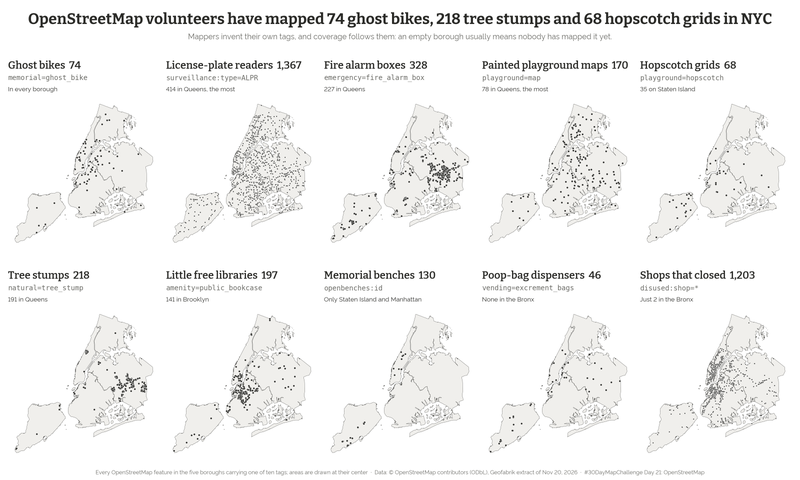
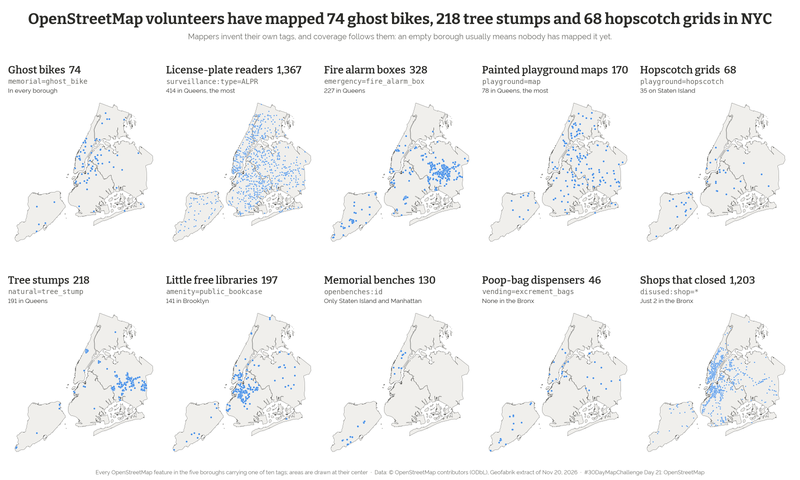
Day 21: blue dots, plus a LinkedIn portrait small-multiples image

diff --git a/docs/day21/index.html b/docs/day21/index.html
@@ -162,8 +162,8 @@ body { margin: 0; background: var(--bg); color: var(--ink);
   .map-wrap > svg:active { cursor: grabbing; }
   .map-wrap > svg.on-dot { cursor: pointer; }
   .land { fill: var(--ctl); stroke: var(--ink); stroke-width: 0.6; vector-effect: non-scaling-stroke; }
-  .dot { fill: var(--ink); stroke: var(--bg); stroke-width: 0.8; vector-effect: non-scaling-stroke; pointer-events: none; }
-  .dot.hot { fill: var(--accent); stroke: var(--ink); stroke-width: 1.5; }
+  .dot { fill: var(--accent); stroke: var(--bg); stroke-width: 0.8; vector-effect: non-scaling-stroke; pointer-events: none; }
+  .dot.hot { fill: var(--seq-7); stroke: var(--bg); stroke-width: 1.5; }
 
   /* in-map panel for the chosen tag (MapKit.legend, so it moves under the map on phones) */
   .legend code, .tip code { font: 14px/1.3 ui-monospace, SFMono-Regular, Menlo, monospace; }

diff --git a/day21-openstreetmap/web/index.html b/day21-openstreetmap/web/index.html
@@ -18,8 +18,8 @@
   .map-wrap > svg:active { cursor: grabbing; }
   .map-wrap > svg.on-dot { cursor: pointer; }
   .land { fill: var(--ctl); stroke: var(--ink); stroke-width: 0.6; vector-effect: non-scaling-stroke; }
-  .dot { fill: var(--ink); stroke: var(--bg); stroke-width: 0.8; vector-effect: non-scaling-stroke; pointer-events: none; }
-  .dot.hot { fill: var(--accent); stroke: var(--ink); stroke-width: 1.5; }
+  .dot { fill: var(--accent); stroke: var(--bg); stroke-width: 0.8; vector-effect: non-scaling-stroke; pointer-events: none; }
+  .dot.hot { fill: var(--seq-7); stroke: var(--bg); stroke-width: 1.5; }
 
   /* in-map panel for the chosen tag (MapKit.legend, so it moves under the map on phones) */
   .legend code, .tip code { font: 14px/1.3 ui-monospace, SFMono-Regular, Menlo, monospace; }

diff --git a/day21-openstreetmap/build.py b/day21-openstreetmap/build.py
@@ -6,6 +6,7 @@ Where a borough looks empty it usually means nobody has mapped it yet, so each v
 points cluster.
 Writes:
   - out/nyc_folk_tags.png    (static, small multiples: one panel per tag)
+  - out/nyc_folk_tags_linkedin.png  (1080x1350 portrait for the LinkedIn feed, same ten maps in a 3x4 grid)
   - out/nyc_folk_tags.html   (interactive: pick a tag from a dropdown; hover a dot for its tags,
                               click to open it on openstreetmap.org)
 
@@ -39,6 +40,8 @@ BORO_ORDER = ["Manhattan", "Brooklyn", "Queens", "Bronx", "Staten Island"]
 THIS_YEAR = "2026"
 
 TITLE = "OpenStreetMap volunteers have mapped 74 ghost bikes, 218 tree stumps and 68 hopscotch grids in NYC"
+TAKEAWAY = ("Mappers invent their own tags, and coverage follows them: "
+            "an empty borough usually means nobody has mapped it yet.")
 METHOD = ("Every OpenStreetMap feature in the five boroughs carrying one of ten tags; "
           "areas are drawn at their center")
 
@@ -86,32 +89,77 @@ def summarize(pts):
     return views
 
 
+DOT = S.C["accent"]   # series blue
+
+
+def draw_panel(ax, v, land, boros, size_small, size_large, fs):
+    """One small map: land, borough lines, the tag's points, and three heading lines above it.
+    fs = (heading, tag, note) font sizes; text offsets are in points so they hold at any figure size."""
+    land.plot(ax=ax, color=S.C["ctl"], edgecolor="none")
+    boros.boundary.plot(ax=ax, color=S.INK, linewidth=S.MAP["boundary_width"] * 0.6)
+    g = v["sel"].geometry
+    ax.scatter(g.x, g.y, s=size_small if v["n"] < 400 else size_large, color=DOT, edgecolor=S.BG,
+               linewidth=0.2, zorder=3)
+    ax.set_axis_off()
+    ax.set_aspect("equal")
+    ax.set_anchor("NW")   # map sits right under its heading, left-aligned with it
+    lines = [(f"{v['label']}  {v['n']:,}", fs[0], dict(fontweight="semibold", fontfamily=S.HEAD_FONT, color=S.INK)),
+             (v["tag"], fs[1], dict(fontfamily="monospace", color=S.MUTED)),
+             (short_note(v), fs[2], dict(color=S.INK))]
+    y = 3   # points above the axes top, stacked bottom-up
+    for text, size, kw in reversed(lines):
+        ax.annotate(text, xy=(0, 1), xycoords="axes fraction", xytext=(0, y), textcoords="offset points",
+                    fontsize=size, va="bottom", ha="left", **kw)
+        y += size * 1.35
+
+
 def png(views, boros):
     fig, axes = plt.subplots(2, 5, figsize=S.MAP["png_size_in"])
     fig.subplots_adjust(left=0.01, right=0.99, top=0.80, bottom=0.04, wspace=0.04, hspace=0.36)
     land = boros.dissolve()
     for ax, v in zip(axes.flat, views):
-        land.plot(ax=ax, color=S.TOKENS["color"]["light"]["ctl"], edgecolor="none")
-        boros.boundary.plot(ax=ax, color=S.INK, linewidth=S.MAP["boundary_width"] * 0.6)
-        g = v["sel"].geometry
-        size = 7 if v["n"] < 400 else 3
-        ax.scatter(g.x, g.y, s=size, color=S.INK, edgecolor=S.BG, linewidth=0.25, zorder=3)
-        ax.set_axis_off()
-        ax.set_aspect("equal")
-        ax.set_title("")
-        # heading above the panel: label + count, the raw tag, and where the points cluster
-        ax.text(0.0, 1.17, f"{v['label']}  {v['n']:,}", transform=ax.transAxes, fontsize=S.SIZE["panel_title"],
-                fontweight="semibold", color=S.INK, fontfamily=S.HEAD_FONT, va="bottom")
-        ax.text(0.0, 1.10, v["tag"], transform=ax.transAxes, fontsize=S.SIZE["subtitle"], color=S.MUTED,
-                va="bottom", fontfamily="monospace")
-        ax.text(0.0, 1.03, short_note(v), transform=ax.transAxes, fontsize=S.SIZE["annotation"],
-                color=S.INK, va="bottom")
+        draw_panel(ax, v, land, boros, 7, 3, (S.SIZE["panel_title"], S.SIZE["subtitle"], S.SIZE["annotation"]))
     S.title(fig, TITLE)
-    fig.text(0.5, 0.918, "Mappers invent their own tags, and coverage follows them: "
-             "an empty borough usually means nobody has mapped it yet.",
-             ha="center", fontsize=S.SIZE["subtitle"] + 1, color=S.MUTED)
+    fig.text(0.5, 0.918, TAKEAWAY, ha="center", fontsize=S.SIZE["subtitle"] + 1, color=S.MUTED)
     S.credit(fig, f"{METHOD}  ·  {SOURCE}  ·  #30DayMapChallenge {DAY}")
     fig.savefig(OUT / "nyc_folk_tags.png", dpi=S.MAP["png_dpi"])
+    plt.close(fig)
+
+
+def linkedin(views, boros):
+    """4:5 portrait (1080x1350), the largest shape the LinkedIn feed shows: the ten maps in a 3x4 grid,
+    with the takeaway in the two spare cells, type sized to read on a phone."""
+    fig = plt.figure(figsize=(5.4, 6.75))
+    land = boros.dissolve()
+    cols, rows = 3, 4
+    left, right, top, bottom = 0.04, 0.98, 0.855, 0.065
+    cw, ch = (right - left) / cols, (top - bottom) / rows
+    head = 0.06   # room for the three heading lines above each map, in figure height
+    for i, v in enumerate(views):
+        r, c = divmod(i, cols)
+        ax = fig.add_axes([left + c * cw, top - (r + 1) * ch + 0.006, cw * 0.94, ch - head - 0.006])
+        draw_panel(ax, v, land, boros, 2.4, 0.8, (7.5, 5.5, 6))
+    # spare cells (last row, columns 2-3): the takeaway
+    fig.text(left + cw, bottom + ch * 0.6,
+             "Mappers invent their own tags,\nand coverage follows them.\n"
+             "An empty borough usually means\nnobody has mapped it yet.",
+             ha="left", va="center", fontsize=9, color=S.INK, linespacing=1.35, fontfamily=S.HEAD_FONT)
+    fig.text(left + cw, bottom + ch * 0.18, "Hover and click every dot:\n"
+             "daniellecarrick.github.io/30-day-map-challenge/day21",
+             ha="left", va="center", fontsize=7, color=S.MUTED, linespacing=1.35)
+    # two-line headline, shrunk until the longer line fits 94% of the width
+    t1, t2 = TITLE.split(", 218 ")
+    h = fig.text(0.5, 0.972, t1 + ",\n218 " + t2, ha="center", va="top", fontsize=17, fontweight="bold",
+                 fontfamily=S.HEAD_FONT, color=S.INK, linespacing=1.18)
+    renderer = fig.canvas.get_renderer()
+    while h.get_window_extent(renderer).width > 0.94 * fig.bbox.width:
+        h.set_fontsize(h.get_fontsize() - 0.25)
+    fig.text(0.5, 0.89, "Ten odd OpenStreetMap tags in New York City, one map each",
+             ha="center", va="center", fontsize=8.5, color=S.MUTED)
+    fig.text(0.5, 0.012, f"Every OSM feature in the five boroughs with one of ten tags; areas drawn at their center.\n"
+                         f"{SOURCE}\n#30DayMapChallenge {DAY}", ha="center", va="bottom", fontsize=5.5,
+             color=S.MUTED, linespacing=1.4)
+    fig.savefig(OUT / "nyc_folk_tags_linkedin.png", dpi=200)
     plt.close(fig)
 
 
@@ -167,6 +215,8 @@ def main():
         print(f"{v['label']:24} {v['n']:>5}  {v['finding']}")
     png(views, boros)
     print("wrote out/nyc_folk_tags.png")
+    linkedin(views, boros)
+    print("wrote out/nyc_folk_tags_linkedin.png")
     page(views, boros)
 
 
